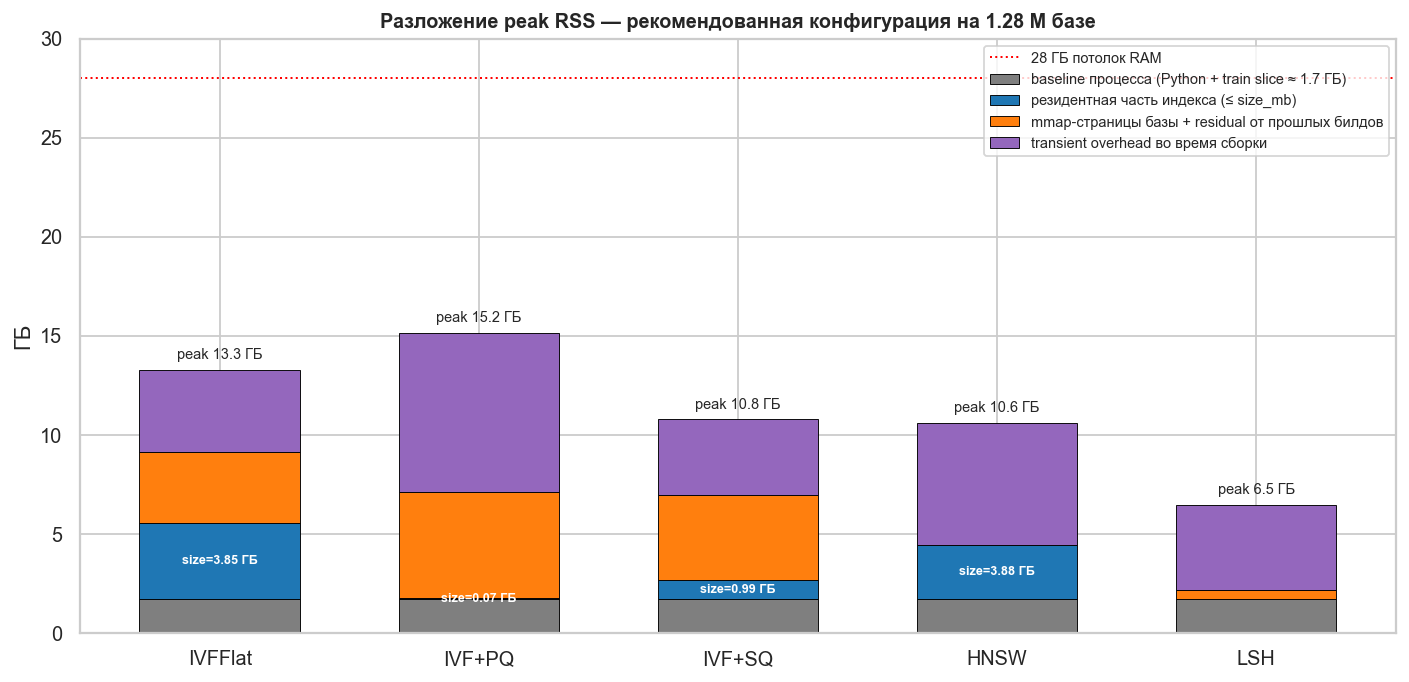
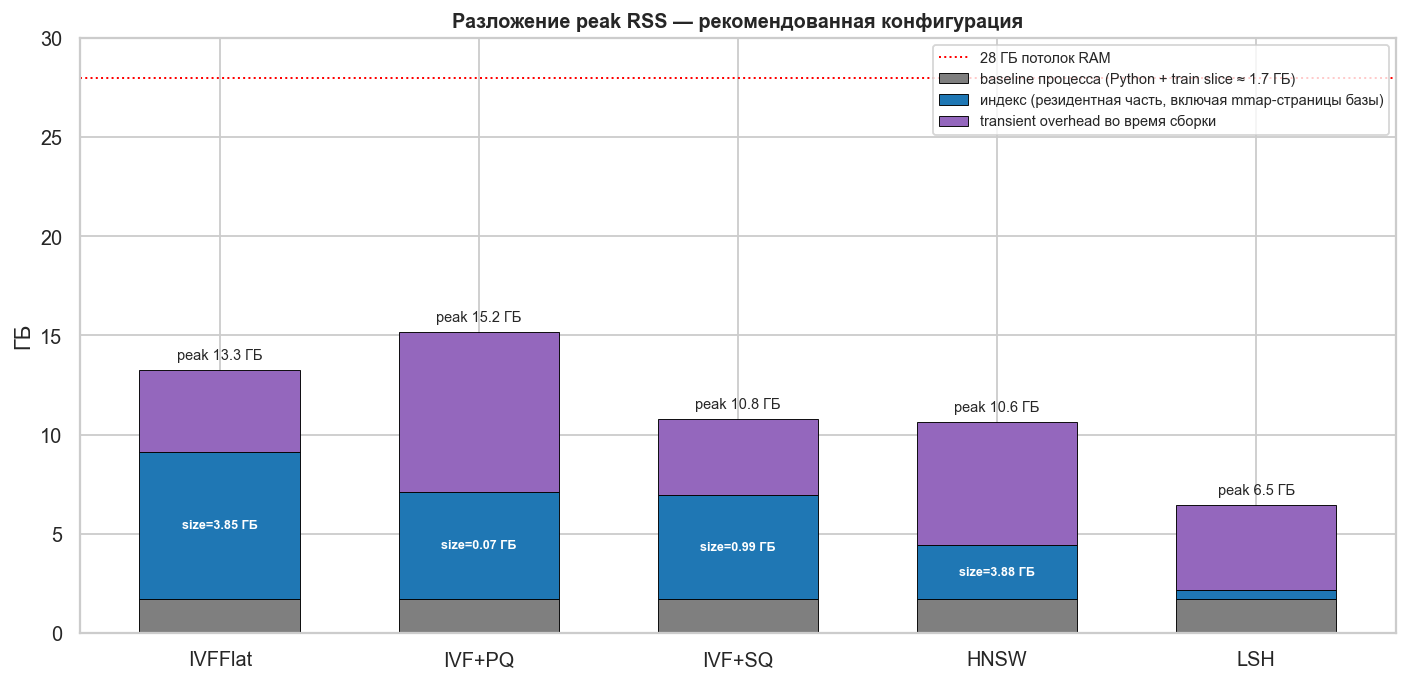
fix report

diff --git a/scripts/analyze_and_report.py b/scripts/analyze_and_report.py
@@ -652,21 +652,16 @@ def plot_best_bars(summary: pd.DataFrame, plots: Path) -> None:
 def plot_memory_budget(summary: pd.DataFrame, plots: Path) -> None:
     """Stacked-bar decomposition of peak RSS.
 
-    Four bands per family (always sum to rss_peak_mb):
+    Three bands per family (always sum to rss_peak_mb):
       1. baseline (constant ≈ 1.7 GB) — Python interpreter + ~200K train
          vectors that stay resident during build.
-      2. index resident — min(size_mb, rss_after - baseline) clipped ≥ 0.
-         The serialised-on-disk index is in general only partly resident in
-         RAM by the time we sample rss_after.
-      3. mmap & residual — rss_after − baseline − index_resident; this picks
-         up mmap'd base pages held by the OS page-cache and accumulated state
-         from previous builds in the same notebook.
-      4. transient peak overhead — rss_peak_mb − rss_after; mmap pages and
+      2. index (resident) — everything between baseline and rss_after.
+         Includes the serialised index plus mmap'd base pages and any
+         residual pages held by FAISS at sample time. We treat all of this
+         as "index footprint" because the user does not care whether a page
+         is technically the index struct or a still-mapped base shard.
+      3. transient peak overhead — rss_peak_mb − rss_after; mmap pages and
          intermediate buffers released before rss_after was sampled.
-
-    This is more honest than min(size, rss_after) because for HNSW (and other
-    families whose serialised footprint ≈ resident footprint) the previous
-    "other" band collapsed to zero and the chart looked under-decomposed.
     """
     picks = _picks_for_charts(summary)
     if picks.empty:
@@ -680,32 +675,26 @@ def plot_memory_budget(summary: pd.DataFrame, plots: Path) -> None:
     peak = (picks.rss_peak_mb / 1024).to_numpy()
     size = (picks.size_mb / 1024).to_numpy()
 
-    baseline = np.full_like(rss_after, BASELINE_GB)
-    baseline = np.minimum(baseline, rss_after)
-    headroom = np.clip(rss_after - baseline, 0, None)
-    idx_resident = np.minimum(size, headroom)
-    mmap_residual = np.clip(headroom - idx_resident, 0, None)
+    baseline = np.minimum(np.full_like(rss_after, BASELINE_GB), rss_after)
+    index_resident = np.clip(rss_after - baseline, 0, None)
     transient = np.clip(peak - rss_after, 0, None)
 
     ax.bar(xs, baseline, width,
            label=f"baseline процесса (Python + train slice ≈ {BASELINE_GB:.1f} ГБ)",
            color="#7f7f7f", edgecolor="black", lw=0.5)
-    ax.bar(xs, idx_resident, width, bottom=baseline,
-           label="резидентная часть индекса (≤ size_mb)",
+    ax.bar(xs, index_resident, width, bottom=baseline,
+           label="индекс (резидентная часть, включая mmap-страницы базы)",
            color="#1f77b4", edgecolor="black", lw=0.5)
-    ax.bar(xs, mmap_residual, width, bottom=baseline + idx_resident,
-           label="mmap-страницы базы + residual от прошлых билдов",
-           color="#ff7f0e", edgecolor="black", lw=0.5)
-    ax.bar(xs, transient, width, bottom=baseline + idx_resident + mmap_residual,
+    ax.bar(xs, transient, width, bottom=baseline + index_resident,
            label="transient overhead во время сборки",
            color="#9467bd", edgecolor="black", lw=0.5)
     ax.axhline(28, color="red", ls=":", lw=1.1, label="28 ГБ потолок RAM")
     for x, v in zip(xs, peak):
         ax.text(x, v + 0.4, f"peak {v:.1f} ГБ", ha="center", va="bottom", fontsize=8)
-    # Annotate "size on disk" inside the index band so people can compare
-    # against resident.
-    for x, sz, b, ir in zip(xs, size, baseline, idx_resident):
-        if sz > 0.05:
+    # "size on disk" annotation inside the index band so people can compare
+    # against the serialised file size.
+    for x, sz, b, ir in zip(xs, size, baseline, index_resident):
+        if sz > 0.05 and ir > 0.6:
             ax.text(x, b + ir / 2, f"size={sz:.2f} ГБ",
                     ha="center", va="center", fontsize=7, color="white",
                     fontweight="bold")
@@ -713,7 +702,7 @@ def plot_memory_budget(summary: pd.DataFrame, plots: Path) -> None:
     ax.set_xticklabels([FAMILY_RU.get(f, f) for f in picks.family])
     ax.set_ylabel("ГБ")
     ax.set_ylim(0, max(30, peak.max() + 2))
-    ax.set_title("Разложение peak RSS — рекомендованная конфигурация на 1.28 M базе")
+    ax.set_title("Разложение peak RSS — рекомендованная конфигурация")
     ax.legend(loc="upper right", fontsize=8)
     fig.tight_layout()
     fig.savefig(plots / "05_memory_budget.png", bbox_inches="tight")
@@ -1981,16 +1970,18 @@ def write_report_ru(
         W(f"Разложение пикового RSS видно на стэк-баре: "
           "серая нижняя полоса — приблизительный baseline процесса "
           "(Python + train slice ≈ 1.7 ГБ), синяя — резидентная часть "
-          "индекса, оранжевая — mmap-страницы базы и накопленный state "
-          "от предыдущих конфигов в этом ноутбуке, фиолетовая — "
-          "transient overhead во время сборки (mmap-кеш + временные "
-          "буферы, освобождаются после `commit`/возврата).")
+          "индекса (включая mmap-страницы базы, которые ОС держит "
+          "резидентными у процесса и которые в реальном serving-сценарии "
+          "точно так же занимают RAM), фиолетовая — transient overhead "
+          "во время сборки (mmap-кеш + временные буферы, освобождаются "
+          "после `commit`/возврата).")
         W()
         W(f"В итоге {ff_txt}; у IVFPQ и LSH сериализованный индекс "
-          "крошечный (< 100 МБ), а большую часть пика держат "
-          "mmap-страницы базы. HNSW также держит свой граф в памяти "
-          "(синяя полоса видна сразу над baseline), но transient "
-          "overhead сборки HNSW сопоставим по высоте с самим индексом.")
+          "крошечный (< 100 МБ), но фактическое резидентное потребление "
+          "сопоставимо с IVFFlat за счёт mmap-страниц базы. HNSW тоже "
+          "держит свой граф в памяти (синяя полоса сразу над baseline), "
+          "но transient overhead сборки HNSW сопоставим по высоте с "
+          "самим индексом.")
         W()
     W(f"![Средняя per-query latency](img/{run}/05_latency_best.png)")
     W()

diff --git a/docs/DRAFT.md b/docs/DRAFT.md
@@ -56,9 +56,9 @@
 
 ![Разложение peak RSS](img/full/05_memory_budget.png)
 
-Разложение пикового RSS видно на стэк-баре: серая нижняя полоса — приблизительный baseline процесса (Python + train slice ≈ 1.7 ГБ), синяя — резидентная часть индекса, оранжевая — mmap-страницы базы и накопленный state от предыдущих конфигов в этом ноутбуке, фиолетовая — transient overhead во время сборки (mmap-кеш + временные буферы, освобождаются после `commit`/возврата).
+Разложение пикового RSS видно на стэк-баре: серая нижняя полоса — приблизительный baseline процесса (Python + train slice ≈ 1.7 ГБ), синяя — резидентная часть индекса (включая mmap-страницы базы, которые ОС держит резидентными у процесса и которые в реальном serving-сценарии точно так же занимают RAM), фиолетовая — transient overhead во время сборки (mmap-кеш + временные буферы, освобождаются после `commit`/возврата).
 
-В итоге у IVFFlat сам индекс — ~3.8 ГБ raw float-векторов, это 29% peak RSS; у IVFPQ и LSH сериализованный индекс крошечный (< 100 МБ), а большую часть пика держат mmap-страницы базы. HNSW также держит свой граф в памяти (синяя полоса видна сразу над baseline), но transient overhead сборки HNSW сопоставим по высоте с самим индексом.
+В итоге у IVFFlat сам индекс — ~3.8 ГБ raw float-векторов, это 29% peak RSS; у IVFPQ и LSH сериализованный индекс крошечный (< 100 МБ), но фактическое резидентное потребление сопоставимо с IVFFlat за счёт mmap-страниц базы. HNSW тоже держит свой граф в памяти (синяя полоса сразу над baseline), но transient overhead сборки HNSW сопоставим по высоте с самим индексом.
 
 ![Средняя per-query latency](img/full/05_latency_best.png)
 